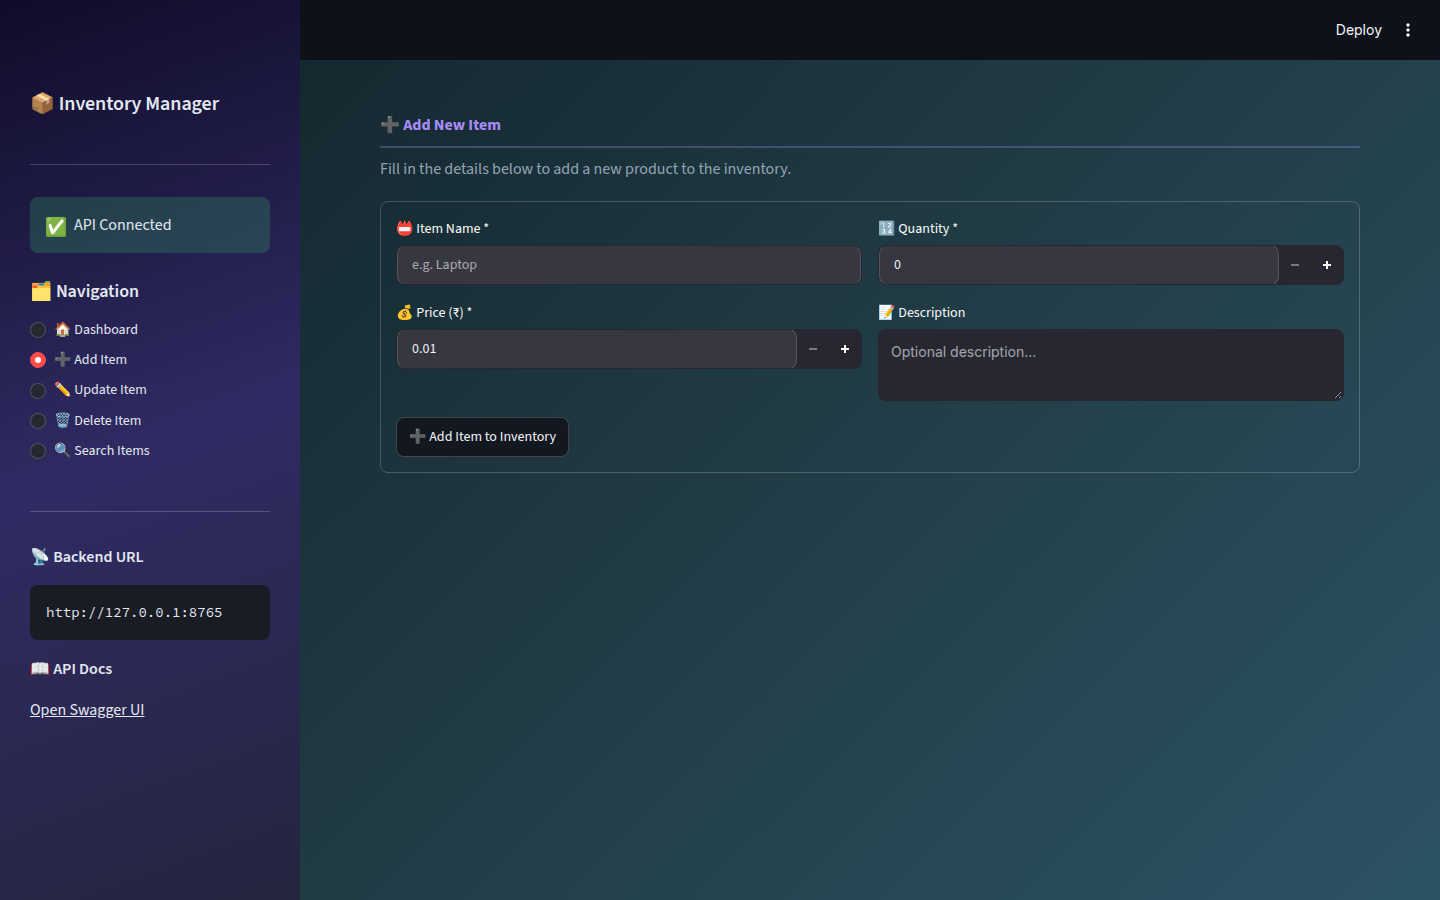
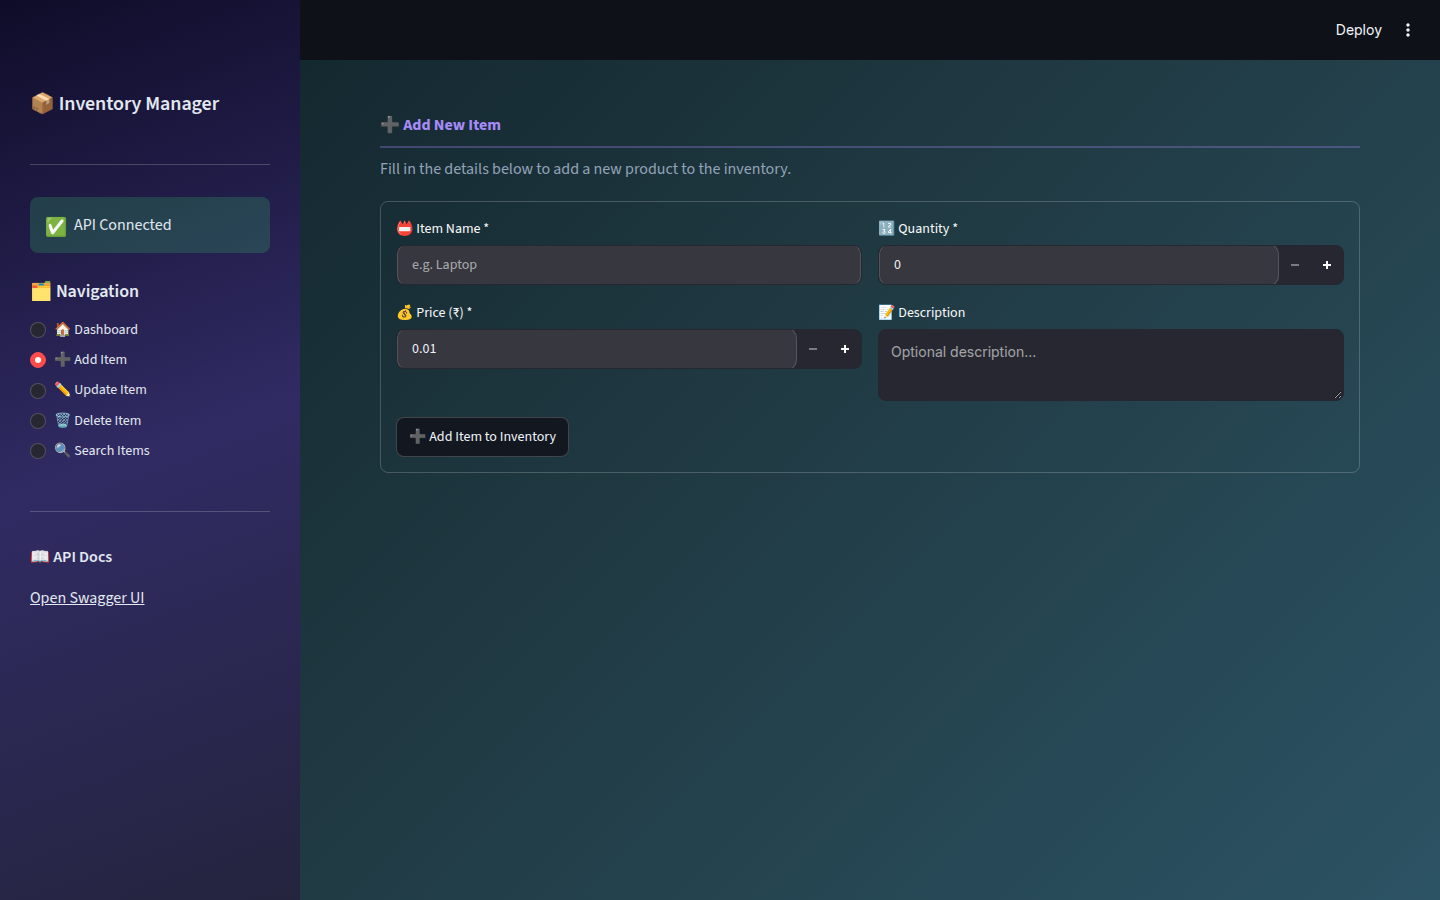
remove backend url from sidebar, point frontend at new render url, update screenshots

Changed region(s): [[0.0, 0.5911, 0.1875, 0.7467], [0.0312, 0.7778, 0.0938, 0.8089]]

diff --git a/frontend/app.py b/frontend/app.py
@@ -8,7 +8,7 @@ from dotenv import load_dotenv
 load_dotenv()
 
 # backend url, set BACKEND_URL to point at a local backend
-BASE_URL = (os.getenv("BACKEND_URL") or "https://inventory-manager-sqqa.onrender.com").rstrip("/")
+BASE_URL = (os.getenv("BACKEND_URL") or "https://inventory-manager-1-zdlf.onrender.com").rstrip("/")
 # render free plan goes to sleep, so first call can be slow
 TIMEOUT = 60
 
@@ -183,8 +183,6 @@ with st.sidebar:
         label_visibility="collapsed"
     )
     st.markdown("---")
-    st.markdown("**📡 Backend URL**")
-    st.code(BASE_URL)
     st.markdown("**📖 API Docs**")
     st.markdown(f"[Open Swagger UI]({BASE_URL}/docs)")
 
